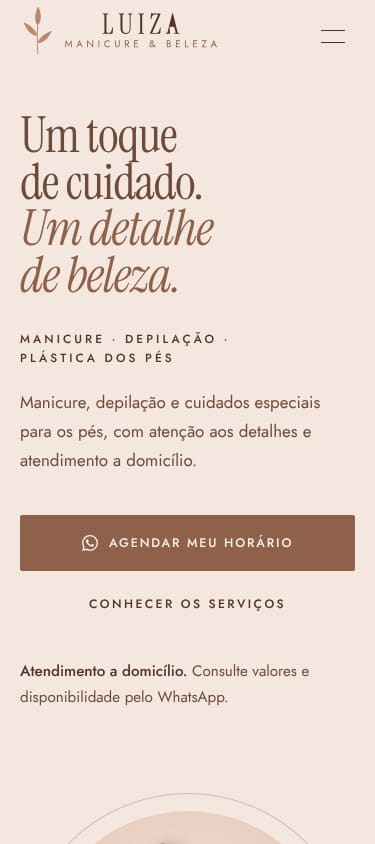
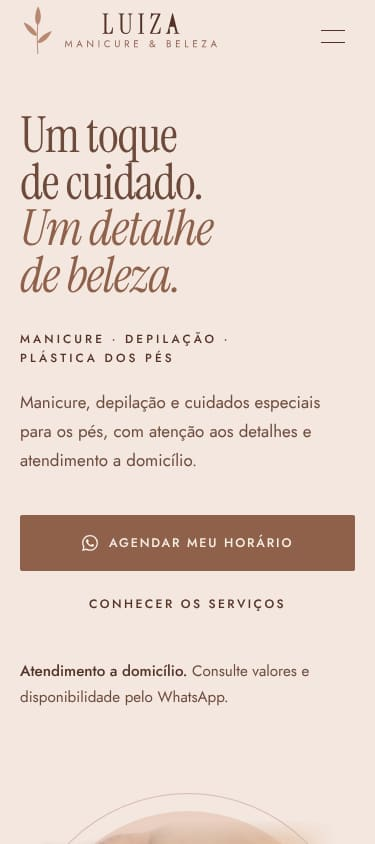
LUIZA: novas fotos da cliente (hero rosa leitoso e galeria natural)
Substitui as quatro fotos antigas por cinco novas: rosa leitoso
recortado na hero (faixa de fundo entre os dedos removida) e galeria com
as fotos naturais enquadradas em 4:5, sem retoque de cor.

Claude-Session: https://claude.ai/code/session_016UG3UNeCQEzYNP7inJMp9g

Changed region(s): [[0.264, 0.9858, 0.8213, 1.0]]

diff --git a/luiza-manicure/src/lib/photos.ts b/luiza-manicure/src/lib/photos.ts
@@ -18,36 +18,29 @@ const p = (id: keyof typeof meta, alt: string, label: string): Photo => ({
   label,
 });
 
-/**
- * Fotografias reais de trabalhos da Luiza. O fundo de celular foi substituído
- * pelo fundo da marca; mãos, unhas e cores não foram retocadas.
- */
+/** Fotografias reais de trabalhos da Luiza (cores originais, sem retoque). */
 export const PHOTOS = {
   hero: p(
     "hero",
-    "Mãos sobrepostas e erguidas com unhas arredondadas em verde metalizado com reflexo cromado.",
-    "Verde metalizado",
+    "Mãos sobrepostas com unhas amendoadas em rosa leitoso translúcido e anéis prateados.",
+    "Rosa leitoso",
   ),
   vinho: p(
-    "vermelho-vinho",
-    "Mãos cruzadas com unhas quadradas esmaltadas em vermelho-vinho brilhante.",
+    "vinho-plantas",
+    "Mãos com unhas quadradas esmaltadas em vermelho-vinho e aliança dourada, diante de folhas verdes.",
     "Vermelho-vinho",
   ),
-  vermelho: p(
-    "vermelho-tatuagens",
-    "Mãos sobrepostas com tatuagens finas e anéis prateados, unhas esmaltadas em vermelho vivo.",
-    "Vermelho vivo",
+  chocolate: p(
+    "chocolate",
+    "Mãos com unhas quadradas em marrom chocolate diante de uma prateleira de esmaltes.",
+    "Chocolate",
   ),
-  terracota: p(
-    "terracota",
-    "Duas mãos mostrando unhas curtas e arredondadas em tom terracota, com aliança e anel de brilhantes.",
-    "Terracota",
-  ),
-  verde: p(
-    "verde-metalizado",
-    "Mãos sobrepostas com unhas arredondadas em verde metalizado com reflexo cromado.",
-    "Verde metalizado",
+  vermelho: p("vermelho", "Mãos sobrepostas com unhas quadradas em vermelho vivo brilhante.", "Vermelho vivo"),
+  lilas: p(
+    "lilas",
+    "Mãos com unhas amendoadas em lilás claro e anel dourado, sobre mesa de madeira.",
+    "Lilás",
   ),
 } as const;
 
-export const GALLERY: Photo[] = [PHOTOS.vinho, PHOTOS.verde, PHOTOS.vermelho, PHOTOS.terracota];
+export const GALLERY: Photo[] = [PHOTOS.vinho, PHOTOS.chocolate, PHOTOS.vermelho, PHOTOS.lilas];

diff --git a/luiza-manicure/src/components/Hero.tsx b/luiza-manicure/src/components/Hero.tsx
@@ -22,7 +22,7 @@ function HeroVisual({ className = "" }: { className?: string }) {
         aria-hidden="true"
         className="arch-in-late absolute bottom-0 left-1/2 h-[calc(86%+18px)] w-[calc(80%+36px)] max-w-[536px] -translate-x-1/2 rounded-t-full border border-b-0 border-rose/45"
       />
-      <div className="hands-in absolute inset-x-0 bottom-0 flex h-[86%] justify-center">
+      <div className="hands-in absolute inset-x-0 bottom-[6%] flex h-[78%] justify-center">
         <Image
           src={photo.src}
           alt={photo.alt}
@@ -31,7 +31,7 @@ function HeroVisual({ className = "" }: { className?: string }) {
           preload
           fetchPriority="high"
           sizes="(min-width: 1024px) 520px, 72vw"
-          className="h-full w-auto max-w-none select-none"
+          className="hero-hands h-full w-auto max-w-none select-none"
           draggable={false}
         />
       </div>

diff --git a/luiza-manicure/src/app/globals.css b/luiza-manicure/src/app/globals.css
@@ -323,6 +323,18 @@ a {
     color-mix(in oklab, var(--color-nude) 82%, var(--color-rose) 18%);
 }
 
+/* Mãos da Hero: os braços somem suavemente nas laterais e no alto */
+.hero-hands {
+  -webkit-mask-image:
+    linear-gradient(to right, transparent 0%, #000 16%, #000 84%, transparent 100%),
+    linear-gradient(to bottom, transparent 0%, #000 14%);
+  -webkit-mask-composite: source-in;
+  mask-image:
+    linear-gradient(to right, transparent 0%, #000 16%, #000 84%, transparent 100%),
+    linear-gradient(to bottom, transparent 0%, #000 14%);
+  mask-composite: intersect;
+}
+
 /* Quadros de foto */
 .photo-frame {
   overflow: hidden;

diff --git a/luiza-manicure/README.md b/luiza-manicure/README.md
@@ -58,13 +58,15 @@ Símbolo botânico de três folhas redesenhado em vetor + "LUIZA" em Cormorant c
 ---
 
 ## 2. Fotografias
-Quatro fotos reais da profissional. O fundo de celular (tecido, plástico, salão) foi **removido** com `@imgly/background-removal-node` (offline) e trocado pelo fundo nude da marca, com sombra suave. **Mãos, unhas e cores não foram retocadas.** A borda do recorte é apertada ~1px para eliminar o fio do fundo original.
+Cinco fotos reais da profissional (segundo lote enviado pela cliente; o primeiro lote foi descartado).
 
-- Originais: `source-photos/*.jpg` · Recortes: `source-photos/recortes/*.png`
-- `npm run assets` gera os quadros 4:5 da galeria e o recorte transparente da Hero em `public/photos/`, com hash do conteúdo no nome (evita cache de versões antigas).
+- **Galeria:** vermelho-vinho com plantas, chocolate na prateleira de esmaltes, vermelho vivo e lilás. Fotos naturais, só enquadradas em 4:5 e comprimidas; **cores sem retoque**.
+- **Hero:** rosa leitoso. O fundo foi removido offline (`@imgly/background-removal-node`) para as mãos ficarem sobre o arco da marca; foi apagada à mão uma faixa da calça que aparecia entre os dedos. Mãos, unhas e cores sem retoque.
+- Originais em `source-photos/*.jpg`, recorte em `source-photos/recortes/rosa-leitoso.png`. `npm run assets` gera tudo em `public/photos/` com hash do conteúdo no nome (evita cache de versões antigas).
 
-| Foto | Onde |
-|---|---|
+Nenhuma foto de unha representa depilação ou plástica dos pés: esses serviços usam ícones desenhados. Nenhuma imagem foi gerada por IA.
+
+---|---|
 | Verde metalizado (recorte) | Hero, sobre o arco nude |
 | Vermelho-vinho, verde metalizado, vermelho com tatuagens, terracota | Galeria |
 
